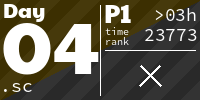
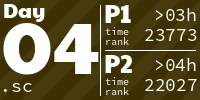
feat(day04): part 2

diff --git a/README.md b/README.md
@@ -2,7 +2,7 @@
 
 <!-- AOC TILES BEGIN -->
 <h1 align="center">
-  2024 - 7 ⭐ - SuperCollider
+  2024 - 8 ⭐ - SuperCollider
 </h1>
 <a href="2024/day01.sc">
   <img src=".aoc_tiles/tiles/2024/01.png" width="161px">
